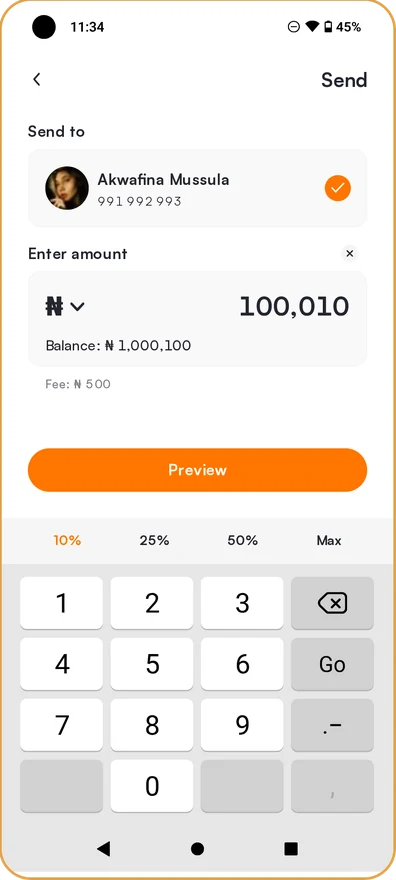
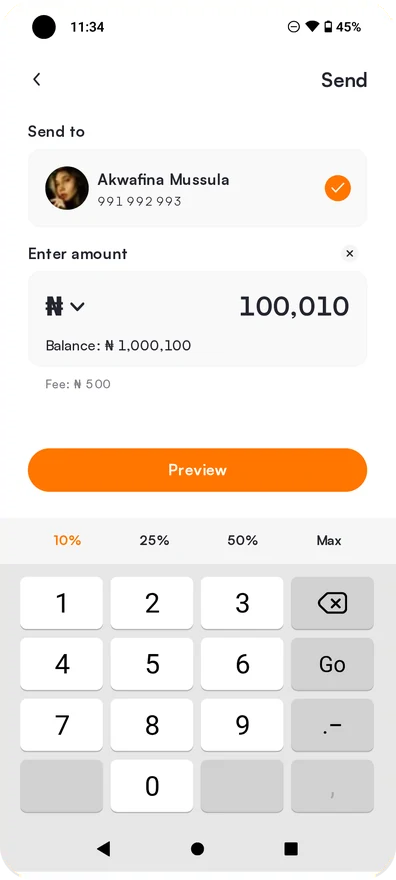
Home: new card layout and header
Cards: company chip and role, one-line title and two-line copy, big stats in the
accent; every stat is Cesar's own result. Images on the left at one width, gentle
accent stroke on the phones, per-card hover tint, weaker image shadow on hover.
Header: photo, name and intro on the images' left edge, CXD in the nav, a divider
under the intro. Mara's third screen without its baked-in orange border.

Changed region(s): [[0.0, 0.0, 1.0, 1.0]]

diff --git a/index.html b/index.html
@@ -8,18 +8,25 @@
 :root[data-theme="dark"]{--bg:#121316;--card:#1a1c20;--ink:#eef0f2;--body:#b3b7bd;--mut:#7c8188;--line:#2a2d33;--accent:#8f96a3;--sh1:0 1px 2px rgba(0,0,0,.3);--sh2:0 18px 44px -20px rgba(0,0,0,.6);--ok:#4ade80;--wip:#fbbf24;--sysFont:Inter,sans-serif;--sysMono:'IBM Plex Mono',ui-monospace,monospace;--flagink:var(--mut);--paperT:rgba(18,19,22,.86);--lab:var(--mut)}
 body{margin:0;background:var(--bg);color:var(--ink);font:15px/1.6 Inter,sans-serif;-webkit-font-smoothing:antialiased;padding:64px 28px 44px;min-height:100vh;display:flex;flex-direction:column}
 .wrap{max-width:1080px;margin:0 auto;width:100%;flex:1;display:flex;flex-direction:column}
-.hrow{display:flex;align-items:center;justify-content:space-between;gap:24px;flex-wrap:wrap}
+.hrow{display:flex;align-items:center;justify-content:flex-start;gap:18px;flex-wrap:wrap}
+.hrow .me{width:72px;height:72px;border-radius:50%;object-fit:cover;flex:none}   /* the LinkedIn photo, black and white */
+/* the name and the intro start on the images' left edge; the photo hangs to the left of the name (full-width screens) */
+@media(min-width:1136px){header{padding-left:58.5px}.hrow{margin-left:-90px}}
+/* home: CXD where the case studies say Home; air above the header */
+.flag.bare .navhome{display:block}
+@media(max-width:480px){.flag.bare .navhome{display:none}}
+@media(min-width:481px){header{margin-top:56px}}
 .tops{display:flex;align-items:center;gap:22px}
 .tops a{font-size:11px;line-height:1;font-weight:700;letter-spacing:.12em;text-transform:uppercase;color:var(--mut);text-decoration:none}
 .tops a:hover{color:var(--ink)}
 header h1{margin:0;font-size:clamp(26px,3.4vw,38px);font-weight:800;letter-spacing:-.03em}
-header p{margin:10px 0 0;color:var(--body);max-width:606.256px;font-size:15.5px}
+header p{margin:10px 0 0;color:var(--body);max-width:680px;font-size:15.5px;text-wrap:pretty}   /* wider, and no one-word last line */
 header p b{color:var(--ink)}
 header p+p{margin-top:8px}
 .grid{display:grid;gap:20px}
 .grid.mains{grid-template-columns:repeat(3,1fr)}
 .gap{min-height:0}
-header{margin-bottom:40px}
+header{margin-bottom:40px;padding-bottom:40px;border-bottom:1px solid var(--line)}   /* a divider after the intro */
 .gap.a{flex:4 0 0}
 .gap.b{flex:6 0 0}
 .flag.bare{margin:-64px -28px 0}
@@ -28,8 +35,8 @@ header{margin-bottom:40px}
 /* one system: every card is two equal halves, same height, same 36px inset on both sides */
 .work{display:flex;flex-direction:column;gap:16px}
 a.pj{--in:36px;display:grid;grid-template-columns:1fr 1fr;height:348px;background:transparent;border:1px solid transparent;border-radius:22px;overflow:hidden;text-decoration:none;color:var(--ink);box-shadow:none;transition:background-color .25s,border-color .25s,box-shadow .25s,transform .25s}
-a.pj:hover,a.pj:focus-visible{background:var(--card);border-color:var(--line);box-shadow:var(--sh2);transform:translateY(-2px);outline:none}
-a.pj.flip .stage{order:2}
+a.pj:hover,a.pj:focus-visible{background:color-mix(in srgb,var(--ac) var(--hv,4%),var(--card));border-color:var(--line);box-shadow:var(--sh2);transform:translateY(-2px);outline:none}
+a.pj .stage{order:0}   /* every image on the left (2026-09-30) */
 
 /* the image half: whole screens, never cut, sitting inside the same inset */
 .stage{position:relative;padding:var(--in);display:flex;align-items:center;justify-content:center;min-width:0;
@@ -38,12 +45,13 @@ a.pj.flip .stage{order:2}
 a.pj:hover .stage .set{transform:scale(1.025)}
 .stage img{display:block}
 .stage.phones img.ph{height:276px;width:auto;filter:drop-shadow(0 6px 14px var(--dsh)) drop-shadow(0 1px 2px var(--dsh2))}
-.stage.desk img.dt{width:420px;max-width:100%;height:auto;border-radius:6px;filter:drop-shadow(0 6px 14px var(--dsh)) drop-shadow(0 1px 2px var(--dsh2))}
+.stage.desk img.dt{width:424px;height:auto;max-width:100%;border-radius:6px;filter:drop-shadow(0 6px 14px var(--dsh)) drop-shadow(0 1px 2px var(--dsh2))}
 .stage img.ph,.stage img.dt{transition:filter .3s}
-a.pj:hover .stage img.ph,a.pj:hover .stage img.dt,a.pj:focus-visible .stage img.ph,a.pj:focus-visible .stage img.dt{filter:drop-shadow(0 18px 26px var(--hsh)) drop-shadow(0 2px 4px var(--dsh2))}
+.stage img.ph{border-radius:6.6% / 3.07%;box-shadow:0 0 0 1px color-mix(in srgb,var(--ac) 10%,transparent)}   /* a very gentle accent stroke on the phones; the radius follows the screens' own corners (27px of 408 x 880) */
+a.pj:hover .stage img.ph,a.pj:hover .stage img.dt,a.pj:focus-visible .stage img.ph,a.pj:focus-visible .stage img.dt{filter:drop-shadow(0 3px 8px var(--dsh2)) drop-shadow(0 1px 1px var(--dsh2))}   /* on hover the screens settle: a weaker shadow (2026-09-30) */
 
 /* the text half: top line, story in the middle, facts on the floor; edges line up with the screens */
-.txt{padding:var(--in) 44px;display:flex;flex-direction:column;justify-content:space-between;min-width:0}
+.txt{padding:calc(var(--in) + 32px) 44px calc(var(--in) + 64px);display:flex;flex-direction:column;justify-content:space-between;min-width:0}
 .txt .meta{margin:0;display:flex;align-items:baseline;gap:10px;line-height:1}
 .txt .meta b{font-size:15px;font-weight:800;letter-spacing:-.02em;color:var(--ac)}
 .txt .meta span{font-size:11px;font-weight:700;letter-spacing:.12em;text-transform:uppercase;color:var(--mut)}
@@ -54,17 +62,20 @@ a.pj:hover .stage img.ph,a.pj:hover .stage img.dt,a.pj:focus-visible .stage img.
 .txt .spec li{display:flex;flex-direction:column;gap:3px}
 .txt .spec b{font-size:20px;line-height:1.1;font-weight:800;letter-spacing:-.025em;white-space:nowrap}
 .txt .spec span{font-size:10px;line-height:1.2;font-weight:700;letter-spacing:.1em;text-transform:uppercase;color:var(--mut);white-space:nowrap}
-.txt .role{margin:8px 0 0;font-size:13px;line-height:1.4;font-weight:600;color:var(--body)}
+.txt .role{margin:0;display:flex;align-items:baseline;gap:10px;font-size:13px;line-height:1.4;font-weight:600;color:var(--body)}
+.txt .role .yr{font-size:11px;font-weight:700;letter-spacing:.12em;text-transform:uppercase;color:var(--mut)}
+.txt .co{margin:0 0 8px;font-size:15px;line-height:1;font-weight:800;letter-spacing:-.02em;color:var(--ac)}   /* the company, as an eyebrow on the title */
 .txt .tech{margin:0;justify-self:end;text-align:right;font:500 11px/1.5 var(--sysMono);color:var(--mut);white-space:nowrap}
 
 /* project hues */
 .pj{--hi:rgba(255,255,255,.7);--dsh:rgba(22,28,60,.08);--dsh2:rgba(22,28,60,.07);--hsh:rgba(22,28,60,.24)}
-.pj-cable{--ac:#2459d1}.pj-confirmo{--ac:#6f45e0}.pj-mara{--ac:#e3601a}.pj-starcount{--ac:#0b968d}.pj-penfold{--ac:#6076dd}
+.pj-mara,.pj-penfold{--hv:2%}.pj-starcount{--hv:3%}.pj-cable{--hv:6%}   /* hover tint: 2% on the warm accents, 4% on the rest */
+.pj-cable{--ac:#2459d1}.pj-confirmo{--ac:#6f45e0}.pj-mara{--ac:#e3601a}.pj-starcount{--ac:#0b968d}.pj-penfold{--ac:#FF5081}
 :root[data-theme="dark"] .pj-cable{--ac:#6f9ae8}
 :root[data-theme="dark"] .pj-confirmo{--ac:#c0abf5}
 :root[data-theme="dark"] .pj-mara{--ac:#f28a4c}
 :root[data-theme="dark"] .pj-starcount{--ac:#66e6de}
-:root[data-theme="dark"] .pj-penfold{--ac:#98a6e9}
+:root[data-theme="dark"] .pj-penfold{--ac:#FF5081}
 .pj-cable{--t1:#ebf0fb;--t2:#d7e1f6}
 .pj-confirmo{--t1:#f2eefe;--t2:#e3dafc}
 .pj-mara{--t1:#fdf3ea;--t2:#f8dfc9}
@@ -80,16 +91,67 @@ a.pj:hover .stage img.ph,a.pj:hover .stage img.dt,a.pj:focus-visible .stage img.
 .ptag{margin-top:40px;text-align:left;padding-left:6px;color:var(--mut);font-size:12.5px}
 .ptag b{color:var(--body);font-weight:600}
 
+
+/* card structure options (review, 2026-09-30): A stat-led on Penfold, B masthead on Cable, C ledger on Confirmo */
+.txt.oa,.txt.ob,.txt.oc,.txt.od{justify-content:space-between}
+.txt.od .foot{margin-top:22px}
+.txt.oh{justify-content:space-between}   /* H: company small, role; big stats in the middle; copy at the foot */
+.txt.oh .mast{display:flex;flex-direction:column;gap:6px}
+.txt.oh .mast .co{margin:0}
+.txt.oi{justify-content:space-between}   /* I: company and copy on top; role and stats at the foot */
+.txt.oi .low{display:flex;flex-direction:column;gap:14px}
+/* J: company tag and role, copy, years; stats at the foot */
+.txt.oj{justify-content:space-between}
+.txt .who{margin:0 0 12px;display:flex;align-items:center;gap:10px;flex-wrap:wrap}
+.txt .ctag{font:500 11px/1 var(--sysMono);letter-spacing:.08em;text-transform:uppercase;padding:5px 9px;border-radius:4px;color:#FFFFFF;background:var(--ac)}   /* as the chip at the top of the Cable case study */
+.txt .rr{font-size:13px;line-height:1.3;font-weight:600;color:var(--body)}
+.txt .yr2{margin:8px 0 0;font-size:11px;line-height:1.2;font-weight:700;letter-spacing:.12em;text-transform:uppercase;color:var(--mut)}
+/* options E, F, G (2026-09-30): role and stats lead; company quiet */
+.txt.oe,.txt.of,.txt.og{justify-content:space-between}
+.txt .eb{margin:0;font-size:11px;line-height:1.2;font-weight:700;letter-spacing:.12em;text-transform:uppercase;color:var(--mut)}
+.txt .rh{margin:6px 0 0;font-size:22px;line-height:1.15;font-weight:800;letter-spacing:-.025em;color:var(--ink)}
+.txt.oe h2,.txt.of h2,.txt.og h2{font-size:17px;line-height:1.3;font-weight:700;letter-spacing:-.015em;white-space:nowrap}
+.txt.oe .sum,.txt.of .sum,.txt.og .sum{margin-top:6px}
+.txt .big.hero{gap:36px}
+.txt .big.hero b{font-size:40px}
+.txt .rh2{margin:14px 0 0;font-size:15px;line-height:1.35;font-weight:700;color:var(--ink)}
+.txt .rh2 span{font-weight:500;color:var(--mut)}
+.txt.og .split{display:grid;grid-template-columns:minmax(0,1fr) auto;gap:24px;align-items:start}
+.txt.og .who .rh{margin:0 0 8px}
+.txt .big.stack{flex-direction:column;gap:14px;text-align:right}
+.txt .big.stack li{align-items:flex-end}
+.txt .big.stack b{font-size:24px}
+
+.txt .rl.tag{align-self:flex-start;font-size:12.5px;line-height:1;padding:8px 12px;border-radius:999px;background:color-mix(in srgb,var(--ac) 5%,transparent)}   /* role and years as a tag, as the Cable pills */   /* D on Mara: company, copy, stats; role and years at the foot */
+
+.txt .big{list-style:none;margin:0;padding:0;display:flex;gap:32px}
+.txt .big li{display:flex;flex-direction:column;gap:4px}
+.txt .big b{font-size:30px;line-height:1;font-weight:800;letter-spacing:-.03em;color:var(--ac);white-space:nowrap}
+.txt .big span{font-size:10px;line-height:1.2;font-weight:700;letter-spacing:.1em;text-transform:uppercase;color:var(--mut);white-space:nowrap}
+.txt .rl{margin:0;font-size:13px;line-height:1.4;font-weight:600;color:var(--body)}
+.txt .rl span{font-weight:500;color:var(--mut)}
+.txt.ob .mast{display:flex;flex-direction:column;gap:6px}
+.txt.ob .mast .co{margin:0;font-size:28px;line-height:1;font-weight:800;letter-spacing:-.03em}
+.txt.ob h2{font-size:21px}
+.txt .pills{list-style:none;margin:0;padding:0;display:flex;flex-wrap:wrap;gap:8px}
+.txt .pills li{font-size:12.5px;line-height:1;padding:8px 12px;border-radius:999px;color:var(--body);background:color-mix(in srgb,var(--ac) 5%,transparent)}
+.txt .pills b{font-weight:800;color:var(--ink);margin-right:2px}
+.txt .ledger{margin:0;display:grid;grid-template-columns:1.7fr .8fr 1fr 1fr;gap:16px;padding-top:16px;border-top:1px solid var(--line)}
+.txt .ledger div{display:flex;flex-direction:column;gap:5px;min-width:0}
+.txt .ledger dt{font-size:10px;line-height:1.2;font-weight:700;letter-spacing:.1em;text-transform:uppercase;color:var(--mut)}
+.txt .ledger dd{margin:0;font-size:13px;line-height:1.35;font-weight:600;color:var(--ink)}
+.txt .ledger div:nth-child(n+3) dd{font-size:18px;line-height:1.1;font-weight:800;letter-spacing:-.02em}
+
 @media(max-width:900px){
   a.pj{--in:24px;grid-template-columns:1fr;height:auto}
-  a.pj.flip .stage{order:0}
+  a.pj .stage{order:0}
   .stage{height:300px}
   .txt{padding:24px 22px;gap:18px}
   .txt .foot{grid-template-columns:auto auto;row-gap:14px}
   .txt .tech{grid-column:1/-1;justify-self:start;text-align:left}
   .stage.phones img.ph{height:190px}
   .stage .set{gap:12px}
-  .stage.desk img.dt{width:auto;max-height:240px}
+  .stage.desk img.dt{height:auto;max-height:190px;width:auto;max-width:100%}   /* same height as the phones (190) */
   .txt h2{font-size:21px}
 }
 
@@ -101,15 +163,15 @@ a.pj:hover .stage img.ph,a.pj:hover .stage img.dt,a.pj:focus-visible .stage img.
 
 </style>
 </head><body>
-<div class="flag bare"><details class="bgr"><summary aria-label="Menu"><span class="bn">Home</span><svg width="10" height="6" viewBox="0 0 10 6" fill="none" stroke="currentColor" stroke-width="1.8" stroke-linecap="round" stroke-linejoin="round"><path d="M1 1l4 4 4-4"/></svg></summary></details><nav class="pjd" aria-label="Projects"><a href="../penfold/index.html">Penfold</a><a href="../cable/index.html">Cable</a><a href="../confirmo/index.html">Confirmo</a><a href="../mara/index.html">Mara</a><a href="../starcount/index.html">Starcount</a></nav><nav class="tops"><a href="/cv" target="_blank">CV</a><a href="https://www.linkedin.com/in/cesarxdesign" target="_blank"><span class="hlf">Linked</span>In</a><a href="https://github.com/cesarxdesign" target="_blank">Git<span class="hlf">Hub</span></a><a href="mailto:cesarxdesign@gmail.com">Contact</a><span class="thsw" id="thsw" role="group" aria-label="Theme"></span></nav></div>
+<div class="flag bare"><a class="navhome" href="/">CXD</a><details class="bgr"><summary aria-label="Menu"><span class="bn">CXD</span><svg width="10" height="6" viewBox="0 0 10 6" fill="none" stroke="currentColor" stroke-width="1.8" stroke-linecap="round" stroke-linejoin="round"><path d="M1 1l4 4 4-4"/></svg></summary></details><nav class="pjd" aria-label="Projects"><a href="../penfold/index.html">Penfold</a><a href="../cable/index.html">Cable</a><a href="../confirmo/index.html">Confirmo</a><a href="../mara/index.html">Mara</a><a href="../starcount/index.html">Starcount</a></nav><nav class="tops"><a href="/cv" target="_blank">CV</a><a href="https://www.linkedin.com/in/cesarxdesign" target="_blank"><span class="hlf">Linked</span>In</a><a href="https://github.com/cesarxdesign" target="_blank">Git<span class="hlf">Hub</span></a><a href="mailto:cesarxdesign@gmail.com">Contact</a><span class="thsw" id="thsw" role="group" aria-label="Theme"></span></nav></div>
 <div class="wrap">
   <div class="gap a"></div>
   <header>
-    <div class="hrow"><h1>Cesar Garcia</h1></div>
+    <div class="hrow"><img class="me" src="/home/img/cesar.webp" alt="Cesar Garcia" width="72" height="72"><h1>Cesar Garcia</h1></div>
     <p><b>Founding designer, twice.</b> Engineer first. I&rsquo;ve designed experiences for humans for a decade, and now building and shipping leveraging AI and my technical background.</p>
     <p>200M+ people use my work. Give me the messy problems: hard tech limits, fuzzy data, fixes that don&rsquo;t work. I don&rsquo;t design around constraints. I break them down.</p>
   </header>
-  <div class="work"><a class="pj pj-penfold" href="penfold/index.html"><div class="stage phones"><div class="set"><img class="ph" src="/home/img/penfold-1.webp" alt="Penfold app" width="222" height="481" loading="lazy"><img class="ph" src="/home/img/penfold-2.webp" alt="Penfold app" width="222" height="481" loading="lazy"><img class="ph" src="/home/img/penfold-3.webp" alt="Penfold app" width="222" height="481" loading="lazy"></div></div><div class="txt"><div class="top"><p class="meta"><b>Penfold</b><span>Pensions · 2019-20</span></p><p class="role">Founding Designer, first hire</p></div><div class="mid"><h2>Pensions took days. Ours took minutes.</h2><p class="sum">Penfold’s first hire, with a mandate to make pensions sexy. I shipped a live product in 7 days, then iterated it into 3,000 savers and £4M under management in a year.</p></div><div class="foot"><ul class="spec"><li><b>0 &rarr; 1</b><span>in 7 days</span></li><li><b>£4M</b><span>under management</span></li></ul><p class="tech">Consumer fintech · Mobile + Web</p></div></div></a><a class="pj pj-cable flip" href="cable/index.html"><div class="stage desk"><div class="set"><img class="dt" src="/cable/img/paper-trail-3-d.webp" alt="Cable, Paper Trails" loading="lazy"></div></div><div class="txt"><div class="top"><p class="meta"><b>Cable</b><span>Fincrime SaaS · 2020-22</span></p><p class="role">Founding Designer</p></div><div class="mid"><h2>A single-feature product that didn’t sell, turned fincrime SaaS that did.</h2><p class="sum">Cable had one screen, a free pilot and no sales. I gave the flagship room, grew the product with its users, then rebuilt it into one suite banks paid for.</p></div><div class="foot"><ul class="spec"><li><b>10x</b><span>feature set</span></li><li><b>Free → Paid</b><span>pilot to paying clients</span></li></ul><p class="tech">B2B SaaS · AML · Desktop</p></div></div></a><a class="pj pj-confirmo" href="confirmo/index.html"><div class="stage phones"><div class="set"><img class="ph" src="/home/img/confirmo-1.webp" alt="Confirmo checkout" width="222" height="481" loading="lazy"><img class="ph" src="/home/img/confirmo-2.webp" alt="Confirmo checkout" width="222" height="481" loading="lazy"><img class="ph" src="/home/img/confirmo-3.webp" alt="Confirmo checkout" width="222" height="481" loading="lazy"></div></div><div class="txt"><div class="top"><p class="meta"><b>Confirmo</b><span>Payments · 2025-26</span></p><p class="role">Product Design Lead, first designer</p></div><div class="mid"><h2>Tripled conversion. $135M a year added.</h2><p class="sum">A checkout moving $750M a year at a 9% success rate, on a backend nobody could touch. I tuned the flow without touching it, into an extra $135M a year.</p></div><div class="foot"><ul class="spec"><li><b>43%</b><span>success, key markets</span></li><li><b>0</b><span>backend changes</span></li></ul><p class="tech">Checkout · Web</p></div></div></a><a class="pj pj-mara flip" href="mara/index.html"><div class="stage phones"><div class="set"><img class="ph" src="/home/img/mara-1.webp" alt="Mara wallet" width="222" height="481" loading="lazy"><img class="ph" src="/home/img/mara-2.webp" alt="Mara wallet" width="222" height="481" loading="lazy"><img class="ph" src="/home/img/mara-3.webp" alt="Mara wallet" width="222" height="481" loading="lazy"></div></div><div class="txt"><div class="top"><p class="meta"><b>Mara</b><span>Digital wallet · 2022-24</span></p><p class="role">Head of Design and Product Owner</p></div><div class="mid"><h2>20M users added. $6.9M a year saved.</h2><p class="sum">A 27-step signup was losing almost 90% of 50,000 people a day, and paying for half of them. I cut the steps by 70%, and success went from 12% to 88%.</p></div><div class="foot"><ul class="spec"><li><b>12% → 88%</b><span>signup success</span></li><li><b>−70%</b><span>onboarding steps</span></li></ul><p class="tech">Crypto wallet · Mobile</p></div></div></a><a class="pj pj-starcount" href="starcount/index.html"><div class="stage desk"><div class="set"><img class="dt" src="/home/img/starcount.webp" alt="Starcount, UK demand map" loading="lazy"></div></div><div class="txt"><div class="top"><p class="meta"><b>Starcount</b><span>Data intelligence · 2015-19</span></p><p class="role">Head of Product Design, first designer</p></div><div class="mid"><h2>Hit £1M first-year target, in 91 days.</h2><p class="sum">Starcount had data nobody had monetized, sold only as consultancy reports. I turned it into a product clients drove themselves, by making the map lie, correctly.</p></div><div class="foot"><ul class="spec"><li><b>1st ever</b><span>Twitter data deal</span></li><li><b>1</b><span>lie to make it work</span></li></ul><p class="tech">Enterprise · Desktop</p></div></div></a></div>
+  <div class="work"><a class="pj pj-penfold" href="penfold/index.html"><div class="stage phones"><div class="set"><img class="ph" src="/home/img/penfold-1.webp" alt="Penfold app" width="222" height="481" loading="lazy"><img class="ph" src="/home/img/penfold-2.webp" alt="Penfold app" width="222" height="481" loading="lazy"><img class="ph" src="/home/img/penfold-3.webp" alt="Penfold app" width="222" height="481" loading="lazy"></div></div><div class="txt oj"><div class="mid"><p class="who"><span class="ctag">Penfold</span><span class="rr">Founding Designer, first hire</span></p><h2>Pensions took days. Ours took minutes.</h2><p class="sum">First hire at a pension startup. I shipped it fast and ugly, then iterated our way to 3,000 savers.</p></div><ul class="big"><li><b>0 &rarr; 1</b><span>in 7 days</span></li><li><b>£4M</b><span>under management</span></li></ul></div></a><a class="pj pj-cable flip" href="cable/index.html"><div class="stage desk"><div class="set"><img class="dt" src="/cable/img/paper-trail-3-d.webp" alt="Cable, Paper Trails" loading="lazy"></div></div><div class="txt oj"><div class="mid"><p class="who"><span class="ctag">Cable</span><span class="rr">Founding Designer</span></p><h2>It worked. Nobody used it.</h2><p class="sum">Cable had one screen, a free pilot and no sales. I grew it with its users into a full fincrime suite.</p></div><ul class="big"><li><b>90%</b><span>engagement</span></li><li><b>Free &rarr; Paid</b><span>pilot to paying clients</span></li></ul></div></a><a class="pj pj-confirmo" href="confirmo/index.html"><div class="stage phones"><div class="set"><img class="ph" src="/home/img/confirmo-1.webp" alt="Confirmo checkout" width="222" height="481" loading="lazy"><img class="ph" src="/home/img/confirmo-2.webp" alt="Confirmo checkout" width="222" height="481" loading="lazy"><img class="ph" src="/home/img/confirmo-3.webp" alt="Confirmo checkout" width="222" height="481" loading="lazy"></div></div><div class="txt oj"><div class="mid"><p class="who"><span class="ctag">Confirmo</span><span class="rr">Product Design Lead, first designer</span></p><h2>$135M a year added.</h2><p class="sum">A $750M-a-year checkout at 9% success, on a backend nobody could touch. I redesigned the flow on top of it.</p></div><ul class="big"><li><b>3x</b><span>checkout success</span></li><li><b>43%</b><span>success, key markets</span></li></ul></div></a><a class="pj pj-mara flip" href="mara/index.html"><div class="stage phones"><div class="set"><img class="ph" src="/home/img/mara-1.webp" alt="Mara wallet" width="222" height="481" loading="lazy"><img class="ph" src="/home/img/mara-2.webp" alt="Mara wallet" width="222" height="481" loading="lazy"><img class="ph" src="/home/img/mara-3.webp" alt="Mara wallet" width="222" height="481" loading="lazy"></div></div><div class="txt oj"><div class="mid"><p class="who"><span class="ctag">Mara</span><span class="rr">Head of Design and Product Owner</span></p><h2>20M users added. $6.9M a year saved.</h2><p class="sum">50,000 people a day tried to open an account. A 27-step signup lost most of them, and Mara paid for half.</p></div><ul class="big"><li><b>7x</b><span>signup success</span></li><li><b>−70%</b><span>onboarding steps</span></li></ul></div></a><a class="pj pj-starcount" href="starcount/index.html"><div class="stage desk"><div class="set"><img class="dt" src="/home/img/starcount.webp" alt="Starcount, UK demand map" loading="lazy"></div></div><div class="txt oj"><div class="mid"><p class="who"><span class="ctag">Starcount</span><span class="rr">Head of Product Design, first designer</span></p><h2>I sold a lie.</h2><p class="sum">Data nobody had monetized, sold only as consultancy reports. I turned it into a product clients drove themselves.</p></div><ul class="big"><li><b>£1M</b><span>in 91 days</span></li><li><b>4</b><span>direct reports</span></li></ul></div></a></div>
   <div class="ptag"><b>Worked with:</b> NFL · Binance · Coinbase · Circle · Solana · Twitter · Royal Mail</div>
   <div class="gap b"></div>
 </div>
